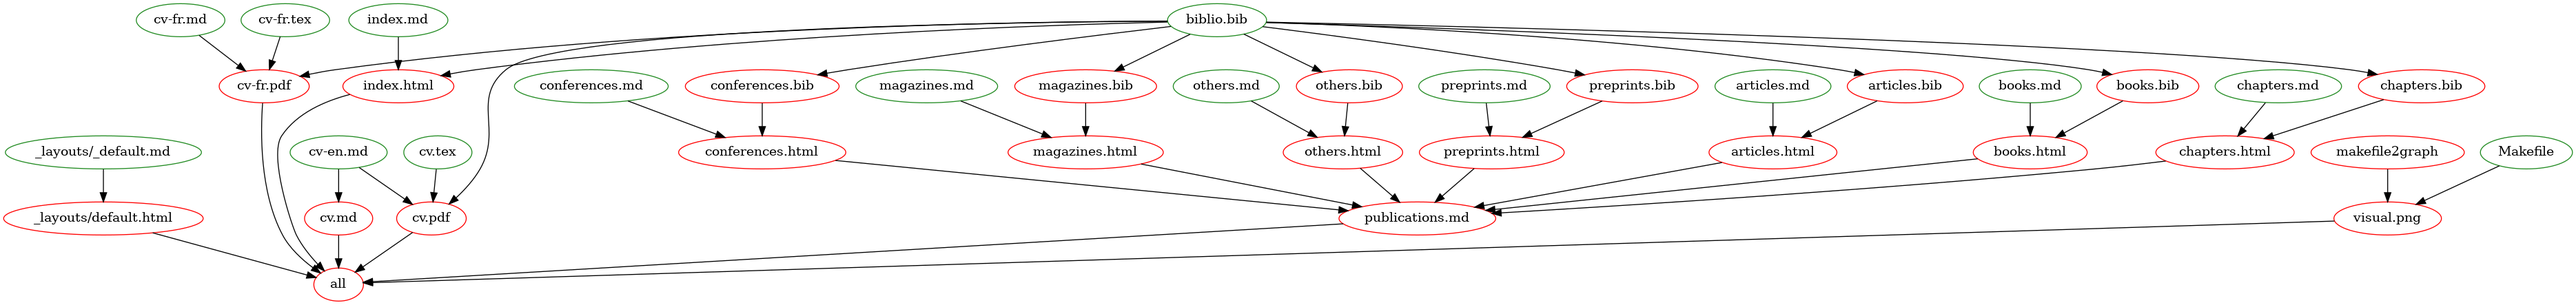
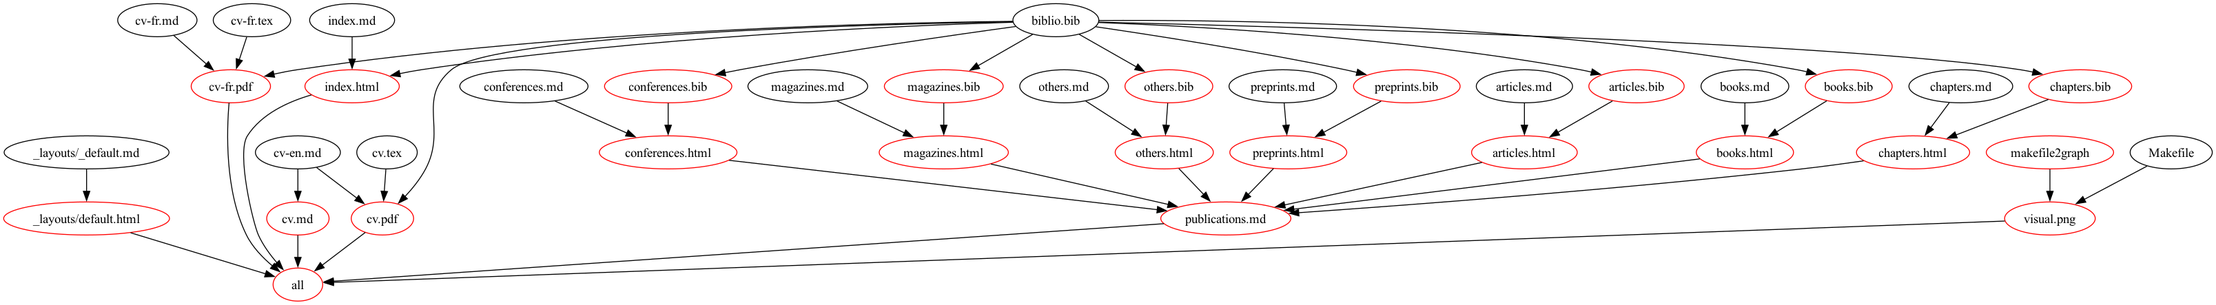
Add publications

diff --git a/cv-fr.tex b/cv-fr.tex
@@ -12,9 +12,9 @@
 \addbibresource{magazines.bib}
 \usepackage[margin=1.8cm]{geometry}
 \usepackage{luatexja-fontspec}
-\setmainjfont{Noto Serif CJK SC}
-\setsansjfont{Noto Serif CJK SC}
-\jfontspec{Noto Serif CJK SC}
+\setmainjfont{Noto Serif SC}
+\setsansjfont{Noto Serif SC}
+\jfontspec{Noto Serif SC}
 
 \usepackage{wrapfig}
 \usepackage[colorlinks]{hyperref}

diff --git a/cv.tex b/cv.tex
@@ -12,9 +12,9 @@
 \addbibresource{magazines.bib}
 \usepackage[margin=1.8cm]{geometry}
 \usepackage{luatexja-fontspec}
-\setmainjfont{Noto Serif CJK SC}
-\setsansjfont{Noto Serif CJK SC}
-\jfontspec{Noto Serif CJK SC}
+\setmainjfont{Noto Serif SC}
+\setsansjfont{Noto Serif SC}
+\jfontspec{Noto Serif SC}
 
 \usepackage{wrapfig}
 \usepackage[colorlinks]{hyperref}

diff --git a/preprints.md b/preprints.md
@@ -6,3 +6,5 @@ nocite: |
     @*
 ---
 [See all publications on Scholar](https://scholar.google.com/citations?hl=en&user=7oCGHIMAAAAJ)
+
+### Preprints
